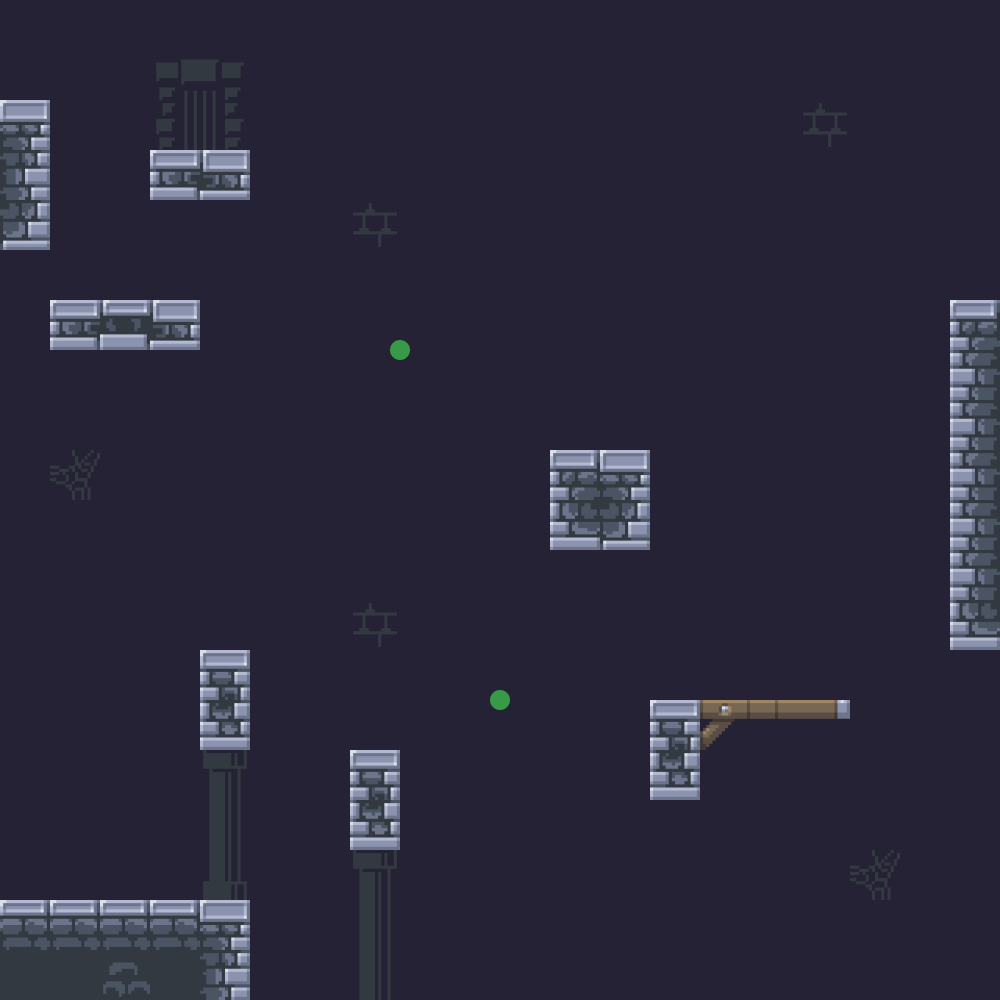
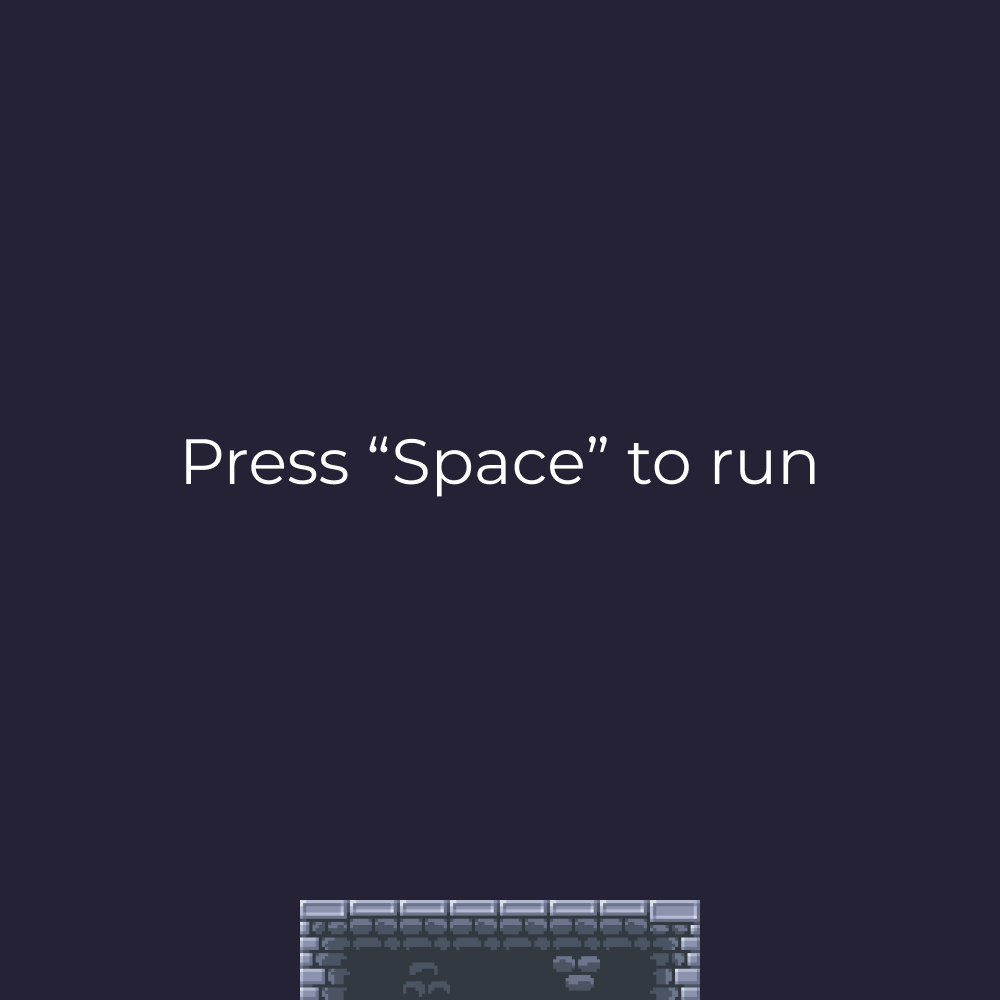
textures

diff --git a/js/script.js b/js/script.js
@@ -12,8 +12,9 @@ const GRAVITY_FORCE = 0.5;
 const DASH_SIZE = 125;
 const DASH_TIME = 5;
 const EFFECT_DISTANCE = 50;
-const DRAW_HITBOXES = true;
-const DRAW_LEVEL = false;
+const DRAW_GRID = false;
+const DRAW_HITBOXES = false;
+const DRAW_LEVEL = true;
 //#endregion
 
 //#region VARIABLES
@@ -24,7 +25,7 @@ let dashSize = DASH_SIZE;
 let started = false;
 let ended = false;
 
-let levelIndex = 4;
+let levelIndex = 0;
 let trailX = 0;
 let trailY = 0;
 
@@ -130,15 +131,26 @@ function loop() {
     //#region DRAW
     // clear
     ctx.clearRect(0, 0, canvas.width, canvas.height);
-    ctx.fillStyle = "red";
     ctx.strokeStyle = "red";
 
     if (DRAW_LEVEL) {
         background.src = "./images/levels/level" + levelIndex + ".png";
         ctx.drawImage(background, 0, 0, canvas.width, canvas.height);
     }
+
+    if (DRAW_GRID) {
+        ctx.fillStyle = "grey";
+        for (let i = 0; i <= canvas.width; i+= 50) {
+            ctx.fillRect(i, 0, 1, canvas.height);
+        }
+        for (let i = 0; i <= canvas.width; i+= 50) {
+            ctx.fillRect(0, i, canvas.width, 1);
+        }
+    }
     
     // player
+    ctx.fillStyle = "red";
+    ctx.lineWidth = 5;
     if (trailTime > 0) {
         trailTime --;
         ctx.fillRect(trailX + dashSize * (DASH_TIME - trailTime) / DASH_TIME * jumpSide, trailY, player.size, player.size);
